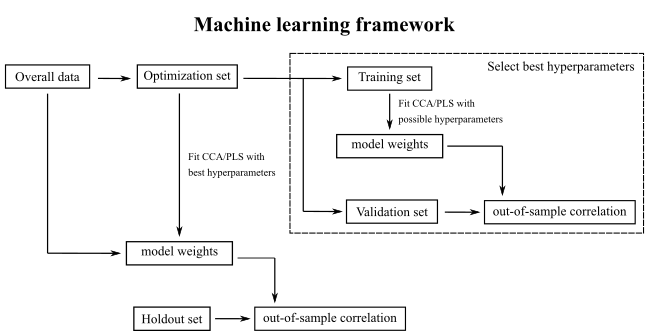
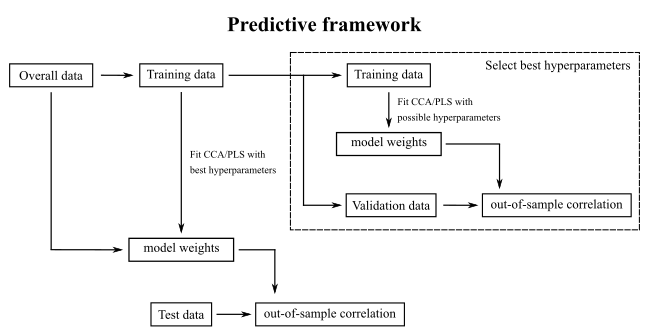
Update documentation for tutorial paper appearing online

diff --git a/examples/example_simulation.m b/examples/example_simulation.m
@@ -14,7 +14,7 @@ function example_simulation
 % the signal to be sparse with 10% of the features in each modality that 
 % are relevant to capture the association across modalities. The noise 
 % parameter of the model is set to 1. For further details on the generative 
-% model, see Mihalik et al. in review.
+% model, see [Mihalik et al. 2022](https://doi.org/10.1016/j.bpsc.2022.07.012).
 %
 % ```matlab
 % %----- Generate data
@@ -69,7 +69,8 @@ function example_simulation
 % validation sets) and stability (measured as the avarage similarity of 
 % weights across the inner training sets) as a joint optimization criterion. 
 % This is set by `machine.param.crit = correl+simwxy`. For further details 
-% on this criterion, see [Mihalik et al. (2020)](https://doi.org/10.1016/j.biopsych.2019.12.001)
+% on this criterion, see [Mihalik et al.
+% (2020)](https://doi.org/10.1016/j.biopsych.2019.12.001).
 %  
 % ```matlab
 % % Machine settings
@@ -119,7 +120,7 @@ function example_simulation
 % ## Statistical inference
 %
 % Finally, we need to define how the statistical inference is performed. 
-% For quicker results, we wet the number of permutations to 100, however, 
+% For quicker results, we set the number of permutations to 100, however, 
 % we recommend using at least 1000 permutations in general. 
 % 
 % ```matlab
@@ -185,7 +186,7 @@ function example_simulation
 % subplot. In this example, we plot the test (out-of-sample) correlation 
 % and the joint generalizability-stability criterion (`dist2`), which was 
 % used for selecting the best hyperparameter. For more details, see
-% [Mihalik et al. (2020)](https://doi.org/10.1016/j.biopsych.2019.12.001)
+% [Mihalik et al. (2020)](https://doi.org/10.1016/j.biopsych.2019.12.001).
 %
 % ```matlab
 % % Plot hyperparameter surface for grid search results

diff --git a/examples/example_fmri.m b/examples/example_fmri.m
@@ -14,7 +14,7 @@ function example_fmri
 % the signal to be sparse with 10% of the features in each modality that 
 % are relevant to capture the association across modalities. The noise 
 % parameter of the model is set to 1. For further details on the generative 
-% model, see Mihalik et al. in review.
+% model, see [Mihalik et al. 2022](https://doi.org/10.1016/j.bpsc.2022.07.012).
 %
 % ```matlab
 % %----- Generate data
@@ -160,8 +160,8 @@ function example_fmri
 % __omnibus hypothesis__ is used, which tests if any outer split is 
 % significant after adjusting the threshold with Bonferroni correction 
 % (e.g., p=0.01 in case of 5 splits). This approach is based on 
-% [Monteiro et al. 2016](https://doi.org/10.1016/j.jneumeth.2016.06.011)
-% For quicker results, we wet the number of permutations to 100, however, 
+% [Monteiro et al. 2016](https://doi.org/10.1016/j.jneumeth.2016.06.011).
+% For quicker results, we set the number of permutations to 100, however, 
 % we recommend using at least 1000 permutations in general. 
 % 
 % ```matlab

diff --git a/examples/example_smri.m b/examples/example_smri.m
@@ -14,8 +14,7 @@ function example_smri
 % features in the behavioural modality. We set the signal to be sparse with 
 % 10% of the features in each modality that are relevant to capture the 
 % association across modalities. The noise parameter of the model is set to 
-% 1. For further details on the generative model, see Mihalik et al. in 
-% review.
+% 1. For further details on the generative model, see [Mihalik et al. 2022](https://doi.org/10.1016/j.bpsc.2022.07.012).
 %
 % ```matlab
 % %----- Generate data
@@ -139,7 +138,7 @@ function example_smri
 % ## Statistical inference
 %
 % Finally, we need to define how the significance testing is performed. 
-% For quicker results, we wet the number of permutations to 100, however, 
+% For quicker results, we set the number of permutations to 100, however, 
 % we recommend using at least 1000 permutations in general. 
 % 
 % ```matlab

diff --git a/documentation/docs/background.md b/documentation/docs/background.md
@@ -27,7 +27,7 @@ $$
 
 We highlight that it is not possible to obtain a solution for this standard CCA when the number of variables exceeds the number of examples (technically speaking, the optimization problem is ill posed). Two approaches have been proposed to address this problem:
 
-- reducing the dimensionality of the data with Principal Component Analysis (PCA)(e.g., [Smith et al. 2015](https://doi.org/10.1038/nn.4125), [Helmer et al. 2020](https://doi.org/10.1101/2020.08.25.265546), [Alnaes et al. 2020](https://doi.org/10.1073/pnas.2001517117)),
+- reducing the dimensionality of the data with Principal Component Analysis (PCA) (e.g., [Smith et al. 2015](https://doi.org/10.1038/nn.4125), [Helmer et al. 2020](https://doi.org/10.1101/2020.08.25.265546), [Alnaes et al. 2020](https://doi.org/10.1073/pnas.2001517117)),
 - using regularized extensions of CCA and PLS (e.g., [Xia et al. 2018](https://doi.org/10.1038/s41467-018-05317-y), [Ing et al. 2019](https://doi.org/10.1038/s41562-019-0738-8), [Popovic et al. 2020](https://doi.org/10.1016/j.biopsych.2020.05.020)). 
 
 We note that although PLS always has a solution (i.e., never ill posed) irrespective of the number of variables, it might still benefit from regularization. Adding an L1-norm regularization, for example, pushes the weights of some variables to zero and therefore forcing the model to learn a sparse solution. 
@@ -117,19 +117,19 @@ Similar to PLS, SPLS can also have different variants based on the [deflation me
 
 In order to optimize the hyperparameters (i.e., number of principal components or regularization parameters) and to perform statistical inference (i.e., assess the number of significant associative effects), the CCA/PLS model is embedded in an analytical framework.
 
-The figures below (adapted from Mihalik et al., under review) illustrate the two frameworks included in the toolkit.
+The figures below ([Mihalik et al. 2022](https://doi.org/10.1016/j.bpsc.2022.07.012)) illustrate the two frameworks included in the toolkit.
 
 <p align="center">
    <img src="../figures/framework_STAT.png" width="649" height="154">
 </p>
 
-In the __statistical framework__, CCA/PLS is fitted on the entire data and the resulting model weights are used to compute in-sample correlation. There is no hyperparameter optimization, i.e., the number of principal components (PCA-CCA) or regularization parameters (RCCA, SPLS) is fixed. To assess the number of significant associative effects, we use permutation testing based on the in-sample correlation. In particular, we shuffle the order of the subjects (i.e., rows) in $\mathbf{Y}$ and fit the CCA/PLS model to compute permuted in-sample correlations. Critically, we calculate the p-value as the fraction of permuted in-sample correlations exceeding the in-sample correlation obtained on the non-permuted data of the first associative effect (i.e., maximum statistics approach).
+In the __descriptive framework__, CCA/PLS is fitted on the entire data and the resulting model weights are used to compute in-sample correlation. There is no hyperparameter optimization, i.e., the number of principal components (PCA-CCA) or regularization parameters (RCCA, SPLS) is fixed. To assess the number of significant associative effects, we use permutation testing based on the in-sample correlation. In particular, we shuffle the order of the subjects (i.e., rows) in $\mathbf{Y}$ and fit the CCA/PLS model to compute permuted in-sample correlations. Critically, we calculate the p-value as the fraction of permuted in-sample correlations exceeding the in-sample correlation obtained on the non-permuted data of the first associative effect (i.e., maximum statistics approach).
 
 <p align="center">
    <img src="../figures/framework_ML.png" width="649" height="331">
 </p>
 
-In the __machine learning framework__, first we randomly split the data into optimization set (e.g., 80% of the overall data) and holdout set (e.g., 20% of the overall data). For CCA/PLS models with hyperparameters (i.e., PCA-CCA, RCCA and SPLS), we further split the optimization set multiple times into training set (e.g., 80% of the optimization set) and validation set (e.g., 20% of the optimization set). The inner split is used for hyperparameter optimization and the outer split is used for statistical inference. The best hyperparameters (one for each data modality) are selected based on the best generalizability of the  model (measured as the average out-of-sample correlation in the validation sets). To assess the number of significant associative effects, we use permutation testing based on the out-of-sample correlation in the holdout set. In particular, we shuffle the order of the subjects (i.e., rows) in $\mathbf{Y}$ and fit the CCA/PLS model to compute permuted out-sample correlation. We calculate the p-value as the fraction of permuted out-of-sample correlations exceeding the out-of-sample correlation obtained on the non-permuted data. If multiple holdout sets are used then the p-value for each holdout set is corrected for multiple comparisons using Bonferroni correction (e.g., $\alpha=0.05/10=0.005$ in case of 10 holdout sets). This means that the associative effect is considered significant if $p \le 0.005$ in at least one of the holdout sets (omnibus hypothesis approach, for details see [Monteiro et al. 2016](https://doi.org/10.1016/j.jneumeth.2016.06.011)).
+In the __predictive (or machine learning) framework__, first we randomly split the data into optimization set (e.g., 80% of the overall data) and holdout set (e.g., 20% of the overall data). For CCA/PLS models with hyperparameters (i.e., PCA-CCA, RCCA and SPLS), we further split the optimization set multiple times into training set (e.g., 80% of the optimization set) and validation set (e.g., 20% of the optimization set). The inner split is used for hyperparameter optimization and the outer split is used for statistical inference. The best hyperparameters (one for each data modality) are selected based on the best generalizability of the  model (measured as the average out-of-sample correlation in the validation sets). To assess the number of significant associative effects, we use permutation testing based on the out-of-sample correlation in the holdout set. In particular, we shuffle the order of the subjects (i.e., rows) in $\mathbf{Y}$ and fit the CCA/PLS model to compute permuted out-sample correlation. We calculate the p-value as the fraction of permuted out-of-sample correlations exceeding the out-of-sample correlation obtained on the non-permuted data. If multiple holdout sets are used then the p-value for each holdout set is corrected for multiple comparisons using Bonferroni correction (e.g., $\alpha=0.05/10=0.005$ in case of 10 holdout sets). This means that the associative effect is considered significant if $p \le 0.005$ in at least one of the holdout sets (omnibus hypothesis approach, for details see [Monteiro et al. 2016](https://doi.org/10.1016/j.jneumeth.2016.06.011)).
 
 An important component of the CCA/PLS framework is testing the __stability of the model__. In the toolkit, the stability of the CCA/PLS model is measured as the average similarity of weights across different training (or optimization) sets (of course, at least two splits of data are needed for this). In addition to assessing the stability of the CCA/PLS model in the outer splits, stability can be also used as a joint criterion with generalizability for hyperparameter optimization (for details, see [Mihalik et al. 2020](https://doi.org/10.1016/j.biopsych.2019.12.001)).
 
@@ -173,4 +173,4 @@ $$
 
 where the same notations are used as above.
 
-For additional details on deflations, see e.g., [Wegelin 2000](https://stat.uw.edu/sites/default/files/files/reports/2000/tr371.pdf), [Rosipal & Kramer 2006](https://doi.org/10.1007/11752790_2), [Mihalik et al. 2020](https://doi.org/10.1016/j.biopsych.2019.12.001).
+For additional details on deflations, see e.g., [Wegelin 2000](https://stat.uw.edu/sites/default/files/files/reports/2000/tr371.pdf), [Rosipal & Kramer 2006](https://doi.org/10.1007/11752790_2), [Mihalik et al. 2020](https://doi.org/10.1016/j.biopsych.2019.12.001), [Mihalik et al. 2022](https://doi.org/10.1016/j.bpsc.2022.07.012).

diff --git a/documentation/docs/full_demo.md b/documentation/docs/full_demo.md
@@ -1,8 +1,8 @@
 # Full demonstration using simulated data
 
-In the following, we will outline a complete demonstration of how to install the CCA/PLS toolkit, and generate some of the results that are presented in the accompanying tutorial paper (Mihalik et al., in review). Computation time on a single machine is about 1-3 hours.  
+In the following, we will outline a complete demonstration of how to install the CCA/PLS toolkit, and generate some of the results that are presented in the accompanying tutorial paper ([Mihalik et al. 2022](https://doi.org/10.1016/j.bpsc.2022.07.012)). Computation time on a single machine is about 1-3 hours.  
 
-For more details, please see the in-depth online documentation of the toolkit available at https://anaston.github.io/cca_pls_toolkit/.
+For more details, please see the in-depth online documentation of the toolkit available at [https://anaston.github.io/cca_pls_toolkit/](https://anaston.github.io/cca_pls_toolkit/).
 
 
 
@@ -14,7 +14,7 @@ First, if you have Git already installed, clone the repository from Github using
 git clone https://github.com/anaston/cca_pls_toolkit
 ```
 
-In case you don’t want to clone the repository via Git, you can also go to https://github.com/anaston/cca_pls_toolkit and download all scripts as a zip folder and unzip into a directory of your choice.
+In case you don’t want to clone the repository via Git, you can also go to [https://github.com/anaston/cca_pls_toolkit](https://github.com/anaston/cca_pls_toolkit) and download all scripts as a zip folder and unzip into a directory of your choice.
 
 After the toolkit is downloaded, open MATLAB and go to the folder containing the toolkit (e.g., double-click on the toolbox folder in MATLAB). To initialize the toolkit, run the following lines in the MATLAB command window:
 
@@ -25,7 +25,7 @@ set_path;
 
 ### Dependencies
 
-For this demonstration, we need to add an additional MATLAB toolbox (PALM). For this, download PALM manually using this link (https://fsl.fmrib.ox.ac.uk/fsl/fslwiki/PALM/UserGuide), copy the `PALM` folder into the `external` folder of the CCA/PLS toolkit, then finally add PALM to the MATLAB path using the following line in the MATLAB command window:
+For this demonstration, we need to add an additional MATLAB toolbox (PALM). For this, download PALM manually using this link ([https://fsl.fmrib.ox.ac.uk/fsl/fslwiki/PALM/UserGuide](https://fsl.fmrib.ox.ac.uk/fsl/fslwiki/PALM/UserGuide)), copy the `PALM` folder into the `external` folder of the CCA/PLS toolkit, then finally add PALM to the MATLAB path using the following line in the MATLAB command window:
 
 ```MATLAB
 set_path('PALM');
@@ -54,7 +54,7 @@ The data used in this demo has already been created and saved to a folder under 
 
 ###  Machine
 
-For this demo, we will use an SPLS algorithm. All CCA/PLS models and their settings  (e.g., amount or regularization) can be specified using the `.machine` field of the `cfg` structure. In this case, we will set the `machine.name` field to 'spls' to run SPLS. The metrics used to evaluate the CCA/PLS algorithms can be defined in the `.machine.metric` field of the `cfg` structure.  Here, we specify in-sample correlation ('trcorrel'), out-of-sample correlation ('correl') measuring the generalizability of the model, similarity of the X and Y weights ('simwx', 'simwy') measuring the stability of the model across different training sets of data as well as the explained variance in the training set of X and Y ('trexvarx', 'trexvary'). To select the best hyperparameter (i.e., L1-norm regularization for SPLS), we will use generalizability (measured as average out-of-sample correlation on the validation sets) as optimization criterion. This is set by `.machine.param.crit = correl`. Finally, `.machine.simw` defines the type of similarity measure used to assess the stability of model weights across splits. We set this to 'correlation-Pearson' which will calculate Pearson correlation between each pair of weights.
+For this demo, we will use an SPLS algorithm. All CCA/PLS models and their settings  (e.g., amount or regularization) can be specified using the `.machine` field of the `cfg` structure. In this case, we will set the `machine.name` field to 'spls' to run SPLS. The metrics used to evaluate the CCA/PLS algorithms can be defined in the `.machine.metric` field of the `cfg` structure.  Here, we specify in-sample correlation ('trcorrel'), out-of-sample correlation ('correl') measuring the generalizability of the model, similarity of the X and Y weights ('simwx', 'simwy') measuring the stability of the model across different training sets of data as well as the explained variance in the training set of X and Y ('trexvarx', 'trexvary'). To select the best hyperparameter (i.e., L1-norm regularization for SPLS), we will use generalizability (measured as average out-of-sample correlation on the validation sets) as optimization criterion. This is set by `.machine.param.crit = 'correl'`. Finally, `.machine.simw` defines the type of similarity measure used to assess the stability of model weights across splits. We set this to 'correlation-Pearson' which will calculate Pearson correlation between each pair of weights.
 
 ```MATLAB
 % Machine settings
@@ -67,7 +67,7 @@ cfg.machine.simw = 'correlation-Pearson';
 
 ### Framework
 
-The `.frwork` field defines the general framework used in the analysis. We support two main approaches in the CCA/PLS toolkit. In a `holdout` machine learning framework, the data is divided into training and test sets by randomly subsampling subjects (see [Monteiro et al. 2016](https://doi.org/10.1016/j.jneumeth.2016.06.011)). In a `permutation` statistical framework, the data is not splitted, focusing on in-sample statistical evaluation (see e.g., [Smith et al. 2015](https://doi.org/10.1038/nn.4125)). In this demo, we use the holdout framework with 10 inner and 10 outer data splits. For additional details, see the reference above, the accompanying tutorial paper or the online documentation of the toolkit.
+The `.frwork` field defines the general framework used in the analysis. We support two main approaches in the CCA/PLS toolkit. In a 'holdout' predictive (or machine learning) framework, the data is divided into training and test sets by randomly subsampling subjects (see [Monteiro et al. 2016](https://doi.org/10.1016/j.jneumeth.2016.06.011)). In a 'permutation' descriptive framework, the data is not splitted, focusing on in-sample statistical evaluation (see e.g., [Smith et al. 2015](https://doi.org/10.1038/nn.4125)). In this demo, we use the holdout framework with 10 inner and 10 outer data splits. For additional details, see the reference above, the accompanying tutorial paper ([Mihalik et al. 2022](https://doi.org/10.1016/j.bpsc.2022.07.012)) or [here](../background/#analysis-frameworks).
 
 ```MATLAB
 % Framework settings

diff --git a/documentation/docs/cfg.md b/documentation/docs/cfg.md
@@ -25,7 +25,7 @@ Essential paths to your project, framework and processed data. The project folde
 Algorithm to be used, its settings and information about hyperparameter 
 optimization. Please make sure that you are familiar with the
 hyperparameter settings of the chosen algorithm, e.g. range and scale of
-hyperparameter values for grid search or number of PCA components. We strongly encourage to use [RCCA](../background/#regularized-cca-rcca), [SPLS](../background/#sparse-pls-spls) or [PCA-CCA](../background/#cca-with-pca-dimensionality-reduction-pca-cca). For a discussion, see Mihalik et al., under review.
+hyperparameter values for grid search or number of PCA components. We strongly encourage to use [RCCA](../background/#regularized-cca-rcca), [SPLS](../background/#sparse-pls-spls) or [PCA-CCA](../background/#cca-with-pca-dimensionality-reduction-pca-cca). For a discussion, see [Mihalik et al. 2022](https://doi.org/10.1016/j.bpsc.2022.07.012).
 
 *   **.name** [*'cca', 'rcca', 'pls', 'spls'*]
   
@@ -49,7 +49,7 @@ hyperparameter values for grid search or number of PCA components. We strongly e
 
     in general, we recommend using `'correl'` (measuring the generalizability of the model) or `'correl+simwxy'` (measuring the stability and the generalizability of the model) for [SPLS](../background/#sparse-pls-spls)
     
-    `'correl+simwxy'` calculates a 2-dimensional Euclidean distance from {1,1} based on out-of-sample correlation and the average similarity of $\mathbf{w}_x$ and $\mathbf{w}_y$ (i.e., it measures the deviation from perfect out-of-sample generalizability and perfect model stability, for details, see [Mihalik et al 2020](https://doi.org/10.1016/j.biopsych.2019.12.001))
+    `'correl+simwxy'` calculates a 2-dimensional Euclidean distance from {1,1} based on out-of-sample correlation and the average similarity of $\mathbf{w}_x$ and $\mathbf{w}_y$ (i.e., it measures the deviation from perfect out-of-sample generalizability and perfect model stability, for details, see [Mihalik et al. 2020](https://doi.org/10.1016/j.biopsych.2019.12.001))
     
 *   **.param.name** [*cell array*]
   
@@ -165,11 +165,11 @@ where $c_x$ is the hyperparameter (i.e., `cfg.machine.param.VARx`), $a$ is the s
 
 *   **.spls.tol** [*int --> 1e-5*]
   
-    tolerance during SPLS convergence (for details, see [Monteiro et al. 2016](https://doi.org/10.1016/j.jneumeth.2016.06.011)
+    tolerance during SPLS convergence (for details, see [Monteiro et al. 2016](https://doi.org/10.1016/j.jneumeth.2016.06.011))
     
 *   **.spls.maxiter** [*int --> 100*]
   
-    maximum number of iterations during SPLS convergence (for details, see [Monteiro et al. 2016](https://doi.org/10.1016/j.jneumeth.2016.06.011)
+    maximum number of iterations during SPLS convergence (for details, see [Monteiro et al. 2016](https://doi.org/10.1016/j.jneumeth.2016.06.011))
 
 *   **.simw** [*char*]
 
@@ -180,13 +180,13 @@ where $c_x$ is the hyperparameter (i.e., `cfg.machine.param.VARx`), $a$ is the s
     `'overlap-corrected'` and `'overlap-uncorrected'` calculate the overlap between each pair of sparse weigths in [SPLS](../background/#sparse-pls-spls) (for details, see [Baldassarre et al. 2017](https://www.frontiersin.org/articles/10.3389/fnins.2017.00062/full), [Mihalik et al. 2020](https://doi.org/10.1016/j.biopsych.2019.12.001)).
 
 ###  frwork
-Details of framework with two main approaches. Divide data to training 
-and test sets using single or multiple holdouts (for details, see [Monteiro et al. 2016](https://doi.org/10.1016/j.jneumeth.2016.06.011)) by randomly 
-subsampling subjects. Otherwise, use a permutation approach without any data splitting (see e.g., [Smith et al. 2015](https://doi.org/10.1038/nn.4125)). The default values will change depending on the type of the framework.
+Details of framework with two main approaches. In the predictive (or machine learning) framework, the model is fitted on a training set and evaluated on a holdout set, and the statistical inference is based on out-of-sample correlation. In the descriptive framework, the model is fitted on the entire data, thus the statistical inference is based on in-sample correlation. The default values will change depending on the type of the framework. For further details on frameworks, see [Analysis frameworks](../background/#analysis-frameworks) and [Mihalik et al. 2022](https://doi.org/10.1016/j.bpsc.2022.07.012).
 
 *   **.name** [*'holdout', 'permutation'*]
   
     type of the framework
+
+    note that `permutation` refers for the descriptive framework, even though both frameworks use permutation testing for statistical inference
     
 *   **.flag** [*char*]
   

diff --git a/documentation/docs/mfiles/example_fmri.md b/documentation/docs/mfiles/example_fmri.md
@@ -13,7 +13,7 @@ will use 1000 examples and 100 features in both data modalities. We set
 the signal to be sparse with 10% of the features in each modality that 
 are relevant to capture the association across modalities. The noise 
 parameter of the model is set to 1. For further details on the generative 
-model, see Mihalik et al. in review.
+model, see [Mihalik et al. 2022](https://doi.org/10.1016/j.bpsc.2022.07.012).
 
 ```matlab
 %----- Generate data
@@ -53,25 +53,34 @@ domains as `Category`.
 set_path('aal', 'brainnet');
 
 % Create AAL labels for full simulated fMRI connectivity data
-BrainNet_GenCoord(which('AAL2.nii'), 'AAL.txt');
-T = readtable('AAL.txt');
-nROI = size(T, 1);
-T.Properties.VariableNames([1:3 6]) = {'X' 'Y' 'Z' 'Index'};
-T.Label = sprintfc('Region-%d', [1:nROI]');
-writetable(T(:,[1:3 6:7]), fullfile(data_dir, 'LabelsX.csv'));
-delete AAL.txt; % clean up
+if ~exist(fullfile(data_dir, 'LabelsX.csv'), 'file')
+
+        BrainNet_GenCoord(which('AAL2.nii'), 'AAL.txt');
+        T = readtable('AAL.txt');
+        nROI = size(T, 1);
+        T.Properties.VariableNames([1:3 6]) = {'X' 'Y' 'Z' 'Index'}; % we will need only these variables
+        T.Label = sprintfc('Region-%d', [1:nROI]'); % we need characters for this label
+        writetable(T(:,[1:3 6:7]), fullfile(data_dir, 'LabelsX.csv'));
+        delete AAL.txt; % clean up
+end
 
 % Create mask for subset of 100 connections used as features in input data
-mask = false(nROI);
-full_mask_id = find(tril(true(nROI), -1));
-rand_id = randperm(numel(full_mask_id));
-mask(rand_id(1:100)) = 1;
-save(fullfile(data_dir, 'mask.mat'), 'mask');
+if ~exist(fullfile(data_dir, 'mask.mat'), 'file')
+
+        mask = false(nROI);
+        full_mask_id = find(tril(true(nROI), -1));
+        rand_id = randperm(numel(full_mask_id));
+        mask(rand_id(1:100)) = 1;
+        save(fullfile(data_dir, 'mask.mat'), 'mask');
+end
 
 % Create labels for behavioural data
-T = table([1:100]', [repmat({'Domain 1'}, 50, 1); repmat({'Domain 2'}, 50, 1)], ...
-'VariableNames', {'Label' 'Category'});
-writetable(T, fullfile(data_dir, 'LabelsY.csv'));
+if ~exist(fullfile(data_dir, 'LabelsY.csv'), 'file')
+
+        T = table([1:100]', [repmat({'Domain 1'}, 50, 1); repmat({'Domain 2'}, 50, 1)], ...
+            'VariableNames', {'Label' 'Category'});
+        writetable(T, fullfile(data_dir, 'LabelsY.csv'));
+end
 ```
 
 ##  Analysis
@@ -149,8 +158,8 @@ Second, to infer if the associative effect is significant across splits,
 __omnibus hypothesis__ is used, which tests if any outer split is 
 significant after adjusting the threshold with Bonferroni correction 
 (e.g., p=0.01 in case of 5 splits). This approach is based on 
-[Monteiro et al. 2016](https://doi.org/10.1016/j.jneumeth.2016.06.011)
-For quicker results, we wet the number of permutations to 100, however, 
+[Monteiro et al. 2016](https://doi.org/10.1016/j.jneumeth.2016.06.011).
+For quicker results, we set the number of permutations to 100, however, 
 we recommend using at least 1000 permutations in general. 
 
 ```matlab

diff --git a/documentation/docs/mfiles/example_smri.md b/documentation/docs/mfiles/example_smri.md
@@ -13,8 +13,7 @@ will use 1000 examples, 120 features in the brain modality and 100
 features in the behavioural modality. We set the signal to be sparse with 
 10% of the features in each modality that are relevant to capture the 
 association across modalities. The noise parameter of the model is set to 
-1. For further details on the generative model, see Mihalik et al. in 
-review.
+1. For further details on the generative model, see [Mihalik et al. 2022](https://doi.org/10.1016/j.bpsc.2022.07.012).
 
 ```matlab
 %----- Generate data
@@ -51,18 +50,24 @@ simply use indexes for `Label` and 2 domains as `Category`.
 set_path('aal', 'brainnet');
 
 % Create AAL labels for simulated sMRI data
-BrainNet_GenCoord(which('AAL2.nii'), 'AAL.txt');
-T = readtable('AAL.txt');
-nROI = size(T, 1);
-T.Properties.VariableNames([1:3 6]) = {'X' 'Y' 'Z' 'Index'};
-T.Label = [1:nROI]';
-writetable(T(:,[1:3 6:7]), fullfile(data_dir, 'LabelsX.csv'));
-delete AAL.txt;
+if ~exist(fullfile(data_dir, 'LabelsX.csv'), 'file')
+
+        BrainNet_GenCoord(which('AAL2.nii'), 'AAL.txt');
+        T = readtable('AAL.txt');
+        nROI = size(T, 1);
+        T.Properties.VariableNames([1:3 6]) = {'X' 'Y' 'Z' 'Index'};
+        T.Label = [1:nROI]';
+        writetable(T(:,[1:3 6:7]), fullfile(data_dir, 'LabelsX.csv'));
+        delete AAL.txt;
+end
 
 % Create labels for fake behavioural data
-T = table([1:100]', [repmat({'Domain 1'}, 50, 1); repmat({'Domain 2'}, 50, 1)], ...
-'VariableNames', {'Label' 'Category'});
-writetable(T, fullfile(data_dir, 'LabelsY.csv'));
+if ~exist(fullfile(data_dir, 'LabelsY.csv'), 'file')
+
+        T = table([1:100]', [repmat({'Domain 1'}, 50, 1); repmat({'Domain 2'}, 50, 1)], ...
+            'VariableNames', {'Label' 'Category'});
+        writetable(T, fullfile(data_dir, 'LabelsY.csv'));
+end
 ```
 
 ##  Analysis
@@ -130,7 +135,7 @@ For further details on the environmental settings, see [here](../../cfg/#env).
 
 ###  Statistical inference
 Finally, we need to define how the significance testing is performed. 
-For quicker results, we wet the number of permutations to 100, however, 
+For quicker results, we set the number of permutations to 100, however, 
 we recommend using at least 1000 permutations in general. 
 
 ```matlab

diff --git a/documentation/docs/mfiles/example_simulation.md b/documentation/docs/mfiles/example_simulation.md
@@ -13,7 +13,7 @@ will use 1000 examples and 100 features in both data modalities. We set
 the signal to be sparse with 10% of the features in each modality that 
 are relevant to capture the association across modalities. The noise 
 parameter of the model is set to 1. For further details on the generative 
-model, see Mihalik et al. in review.
+model, see [Mihalik et al. 2022](https://doi.org/10.1016/j.bpsc.2022.07.012).
 
 ```matlab
 %----- Generate data
@@ -67,7 +67,8 @@ generalizability (measured as average out-of-sample corretion on the
 validation sets) and stability (measured as the avarage similarity of 
 weights across the inner training sets) as a joint optimization criterion. 
 This is set by `machine.param.crit = correl+simwxy`. For further details 
-on this criterion, see [Mihalik et al. (2020)](https://doi.org/10.1016/j.biopsych.2019.12.001)
+on this criterion, see [Mihalik et al.
+(2020)](https://doi.org/10.1016/j.biopsych.2019.12.001).
 
 ```matlab
 % Machine settings
@@ -114,7 +115,7 @@ For further details on the environmental settings, see [here](../../cfg/#env).
 
 ###  Statistical inference
 Finally, we need to define how the statistical inference is performed. 
-For quicker results, we wet the number of permutations to 100, however, 
+For quicker results, we set the number of permutations to 100, however, 
 we recommend using at least 1000 permutations in general. 
 
 ```matlab
@@ -177,7 +178,7 @@ plotted as a function of the hyperparameter grid and in a separate
 subplot. In this example, we plot the test (out-of-sample) correlation 
 and the joint generalizability-stability criterion (`dist2`), which was 
 used for selecting the best hyperparameter. For more details, see
-[Mihalik et al. (2020)](https://doi.org/10.1016/j.biopsych.2019.12.001)
+[Mihalik et al. (2020)](https://doi.org/10.1016/j.biopsych.2019.12.001).
 
 ```matlab
 % Plot hyperparameter surface for grid search results

diff --git a/documentation/docs/index.md b/documentation/docs/index.md
@@ -20,6 +20,8 @@ For a short theoretical introduction to the CCA/PLS models, analytic frameworks 
 
 - Winkler AM, Renaud O, Smith SM, Nichols TE (2020) [Permutation inference for canonical correlation analysis.](https://doi.org/10.1016/j.neuroimage.2020.117065) Neuroimage 220, 117065
 
+- Mihalik A, Chapman J, Adams RA et al. (2022) [Canonical Correlation Analysis and Partial Least Squares for identifying brain-behaviour associations: a tutorial and a comparative study.](https://doi.org/10.1016/j.bpsc.2022.07.012) Biol. Psychiatry Cogn. Neurosci. Neuroimaging doi: https://doi.org/10.1016/j.bpsc.2022.07.012
+
 Please use the menu on the left to get started with the toolkit.
 
 ## Contributors
